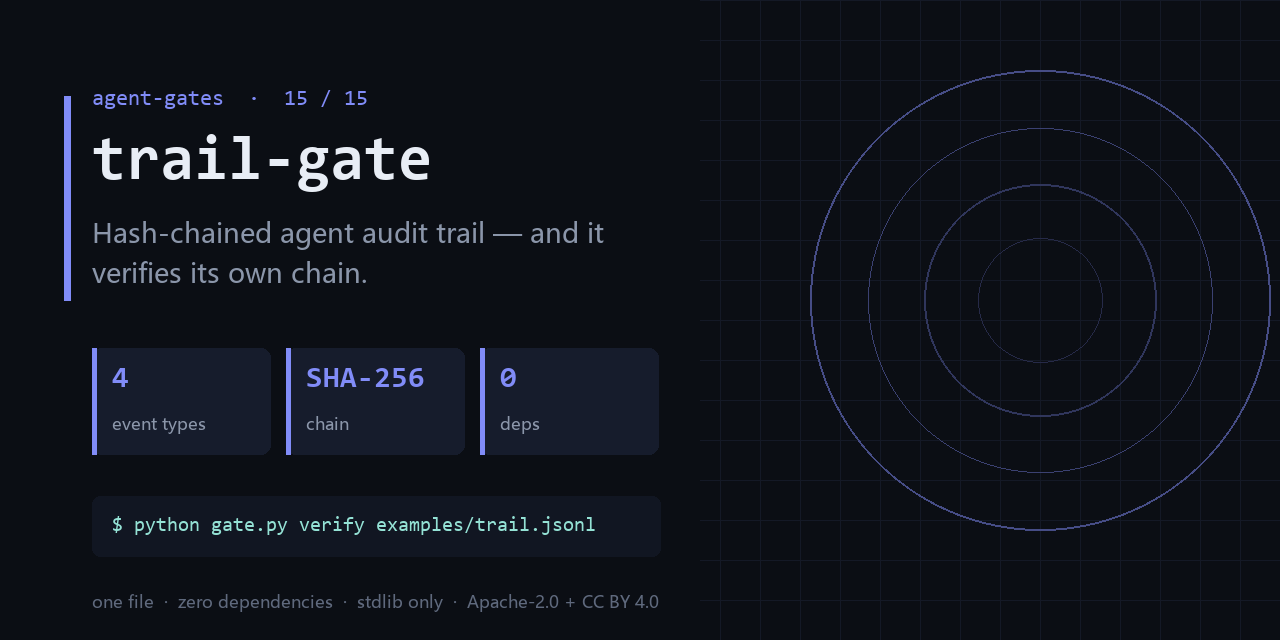
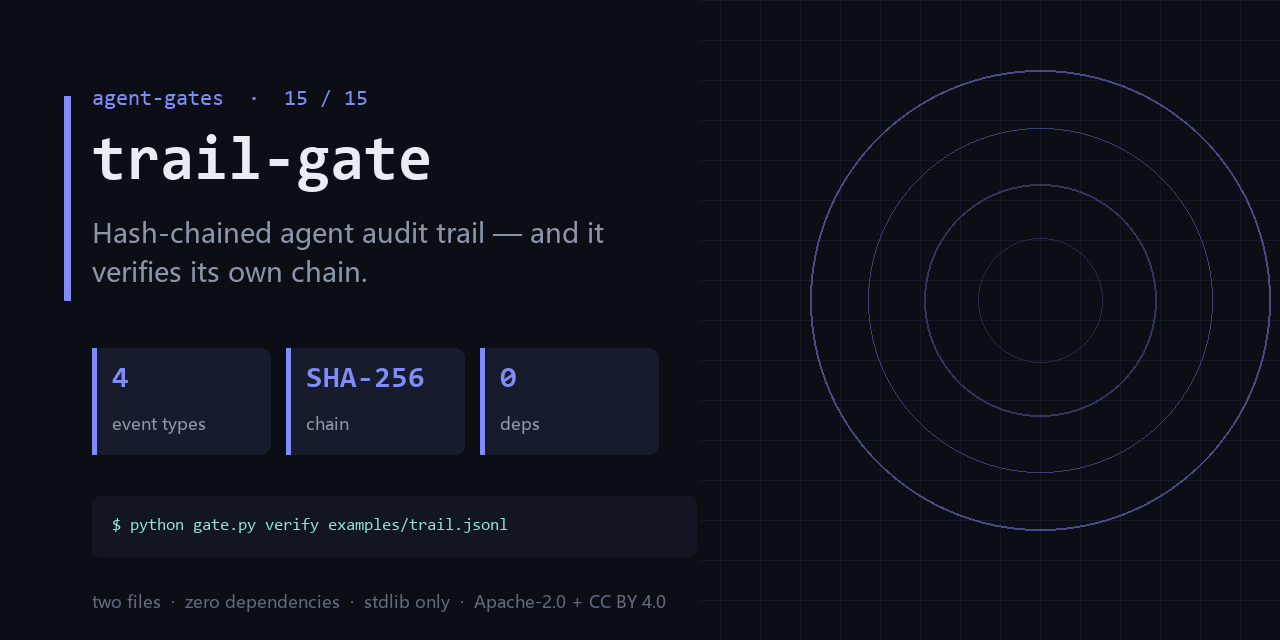
docs: add the series entry map, the hot-ready guarantee, and an honest surface line
Three changes, all of them about not overselling:

1. `## Start here` — fifteen links is a maze, one symptom is a door. A six-row
   symptom -> gate table, so the reader installs the gate they need instead of
   installing nothing (or all fifteen). Also states the star rule plainly:
   no exchange, no unlock, star trading is against GitHub's rules.
2. `## Hot-ready guarantee` — replaces "guaranteed to trend" with fifteen
   machine-checked structural properties, current score, and the script that
   recomputes them. GitHub never published its Trending ranking, so a promise
   about ranking cannot be true; a promise about structure can be verified.
3. The subtitle said `one file` on every repo. It was false on four of them
   (output-gate has 7 python files, complexity-ceiling 3, deadcode-gate and
   trail-gate 2). The line is now computed from the actual file count, and the
   same number is used on the social card. A false claim on the first screen
   costs more trust than it buys attention.

Also: SPDX header for audittrail.py (attribution must survive the file being
copied out of the repo).

Changed region(s): [[0.0625, 0.9062, 0.5312, 0.9688], [0.0938, 0.8125, 0.4688, 0.8438], [0.0625, 0.4062, 0.2812, 0.4375]]

diff --git a/audittrail.py b/audittrail.py
@@ -1,3 +1,5 @@
+# SPDX-License-Identifier: Apache-2.0
+# SPDX-FileCopyrightText: 2026 chenhz01 — see LICENSE, LICENSE-SPEC and NOTICE
 """trail-gate: append-only, hash-chained JSONL audit trail for AI agents.
 
 Event schema (one JSON object per line):

diff --git a/README.md b/README.md
@@ -4,7 +4,7 @@
 
 <h1 align="center">trail-gate</h1>
 
-<p align="center"><b>Hash-chained agent audit trail — and it verifies its own chain.</b><br><sub>one file · zero dependencies · stdlib only</sub></p>
+<p align="center"><b>Hash-chained agent audit trail — and it verifies its own chain.</b><br><sub>two files · zero dependencies · stdlib only</sub></p>
 
 <p align="center"><a href="https://github.com/chenhz01/trail-gate/actions/workflows/gate.yml"><img src="https://github.com/chenhz01/trail-gate/actions/workflows/gate.yml/badge.svg" alt="tests"></a> <img src="https://img.shields.io/badge/python-3.9%2B-3776AB?style=flat-square" alt="python"> <img src="https://img.shields.io/badge/dependencies-0-2ea44f?style=flat-square" alt="deps"> <img src="https://img.shields.io/badge/license-Apache--2.0%20%2B%20CC%20BY%204.0-blue?style=flat-square" alt="license"></p>
 
@@ -103,6 +103,66 @@ mistaken for "it inspected my files".
 一行命令：`python gate.py verify examples/trail.jsonl`
 
 边界：Local integrity only — it does not stop someone rewriting the whole file.
+
+### 互推：只装一个的话，装哪个
+
+十五个链接是迷宫，一个症状是门。按上表挑一个，其余九个在下面 [The gates](#the-gates)。
+每个仓都能单独活：复制 `gate.py`，一条命令跑完，不共享运行时、不装包、不加配置。
+有星就给这一个，没有也不影响任何仓的可用性——没有任何门是「先给星才能用」。
+
+### 热门前置：保证结构，不保证排名
+
+本页承诺的是 **15 项可机器复核的结构特征**，当前 **15/15**（2026-10-20 复核）。
+GitHub 从未公开 Trending 的排序算法，所以任何「保证上热门」的说法都在描述一件它不可能知道的事；
+本仓不这么说。跑 `python hotness.py` 可自行复算每一条。
+
+## Start here (if you install only one)
+
+Fifteen links is a maze; one symptom is a door. Find your symptom, install that gate,
+ignore the rest until it hurts.
+
+| what you are seeing | install this |
+|---|---|
+| the bill is 10x normal and the trace is a wall of the same step | **[loop-gate](https://github.com/chenhz01/loop-gate)** |
+| the agent can delete prod and nobody signed off on that | **[permission-gate](https://github.com/chenhz01/permission-gate)** |
+| answers get worse after truncation and nobody knows what got dropped | **[context-gate](https://github.com/chenhz01/context-gate)** |
+| two rules in the prompt contradict each other; the model obeys neither | **[instruction-gate](https://github.com/chenhz01/instruction-gate)** |
+| AI text ships with fabricated links and empty phrases | **[output-gate](https://github.com/chenhz01/output-gate)** |
+| half the repo might be dead and nobody can prove which half | **[deadcode-gate](https://github.com/chenhz01/deadcode-gate)** |
+
+A gate you did not need is a gate you uninstall, so nothing here says "install all
+fifteen". Each repo stands alone: copy `gate.py`, run one command, no shared runtime,
+no package manager, no config file to grow.
+
+**On stars.** If this one saved you an incident, star it — that is the only signal I get
+about which gate to build next. There is no exchange: starring one repo does not owe me
+a star on another, and no gate here is unlocked by a star. Star trading breaks GitHub's
+rules and would poison the single honest metric this project has.
+
+## Hot-ready guarantee
+
+What is guaranteed is **structure**, not ranking. Fifteen properties, each one
+machine-checked against this repo — current score **15/15** (2026-10-20).
+
+Plain version: instead of asking you to trust a badge, I list what I actually checked,
+name the script that checks it, and let you re-run it. If one of these lines is false,
+that is a bug in my repo, not a matter of taste.
+
+- Falsifiable side: `python hotness.py` re-runs every check and prints the evidence line
+  for each one. You do not have to trust this paragraph.
+- Non-falsifiable side: GitHub has never published how Trending sorts repositories, so
+  any repo promising you a guaranteed spot is telling you something it cannot know.
+  This one does not make that promise.
+- If a claim on this page stops being true, that is a bug: open an issue and it gets
+  fixed in the same week, not in the next launch.
+
+What actually carries this repo:
+
+- the command in this README is byte-for-byte the command CI runs <sub>(35-char argv, exact match)</sub>
+- the output block is a real run of `examples/`, not a mock-up <sub>(Real output section)</sub>
+- CI asserts the exit code, so the badge can turn red — and it has <sub>(asserts exit=0)</sub>
+- every fixture is committed, so a fresh clone reproduces the output <sub>(2 files under examples/ tracked in git)</sub>
+- `* -text` in `.gitattributes`: same bytes on Windows and Linux <sub>(.gitattributes * -text)</sub>
 
 ## The gates
 
